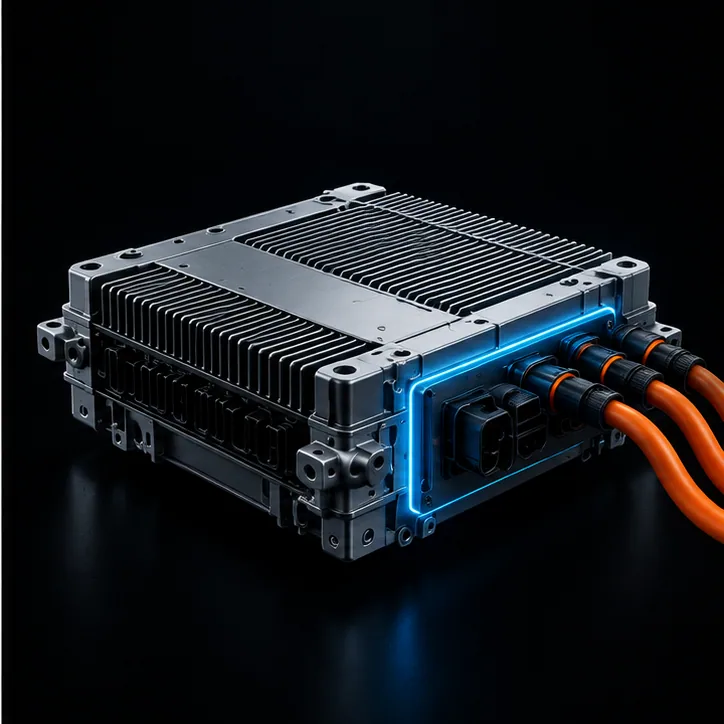
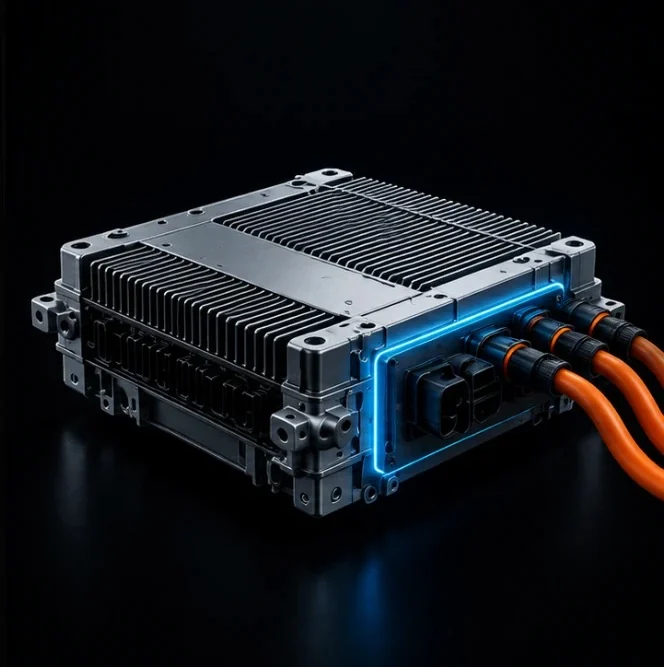
Explorador del kit: imágenes completas, sin recortes ni bordes
Las piezas sueltas venían cortadas de un collage (con líneas blancas y piezas
cortadas); se reemplazan por los originales limpios (serie 04). Todas se
muestran completas en 16:9 y las cuadradas se funden con el fondo.

Claude-Session: https://claude.ai/code/session_01XFRiwZEaKzWSUtwMK7etUG

diff --git a/ventas/src/sections/venta.tsx b/ventas/src/sections/venta.tsx
@@ -194,10 +194,12 @@ export function Explorador() {
           <span className="t-label-sm text-dim max-sm:hidden">Reconversión híbrida aditiva · vista conceptual</span>
         </div>
         <div className="grid lg:grid-cols-[1.45fr_1fr]">
-          <div className="relative aspect-[16/10] overflow-hidden border-line bg-black max-lg:border-b lg:border-r" id="pz-panel" role="tabpanel" aria-labelledby={'pz-tab-' + i}>
+          <div className="relative aspect-[16/9] overflow-hidden border-line bg-black max-lg:border-b lg:border-r" id="pz-panel" role="tabpanel" aria-labelledby={'pz-tab-' + i}>
             <AnimatePresence mode="wait" initial={false}>
               <motion.div key={i} initial={{ opacity: 0, scale: 1.03 }} animate={{ opacity: 1, scale: 1 }} exit={{ opacity: 0 }} transition={{ duration: 0.45, ease: [0.16, 1, 0.3, 1] }} className="absolute inset-0">
-                <Imagen foto={P.foto} className={cn('h-full w-full', P.ajuste === 'contener' ? 'object-contain' : 'object-cover')} />
+                <Imagen foto={P.foto} className={P.ajuste === 'contener'
+                  ? 'mx-auto aspect-square h-full w-auto max-w-full object-contain [mask-image:radial-gradient(closest-side,#000_72%,transparent)]'
+                  : 'h-full w-full object-contain'} />
               </motion.div>
             </AnimatePresence>
           </div>
